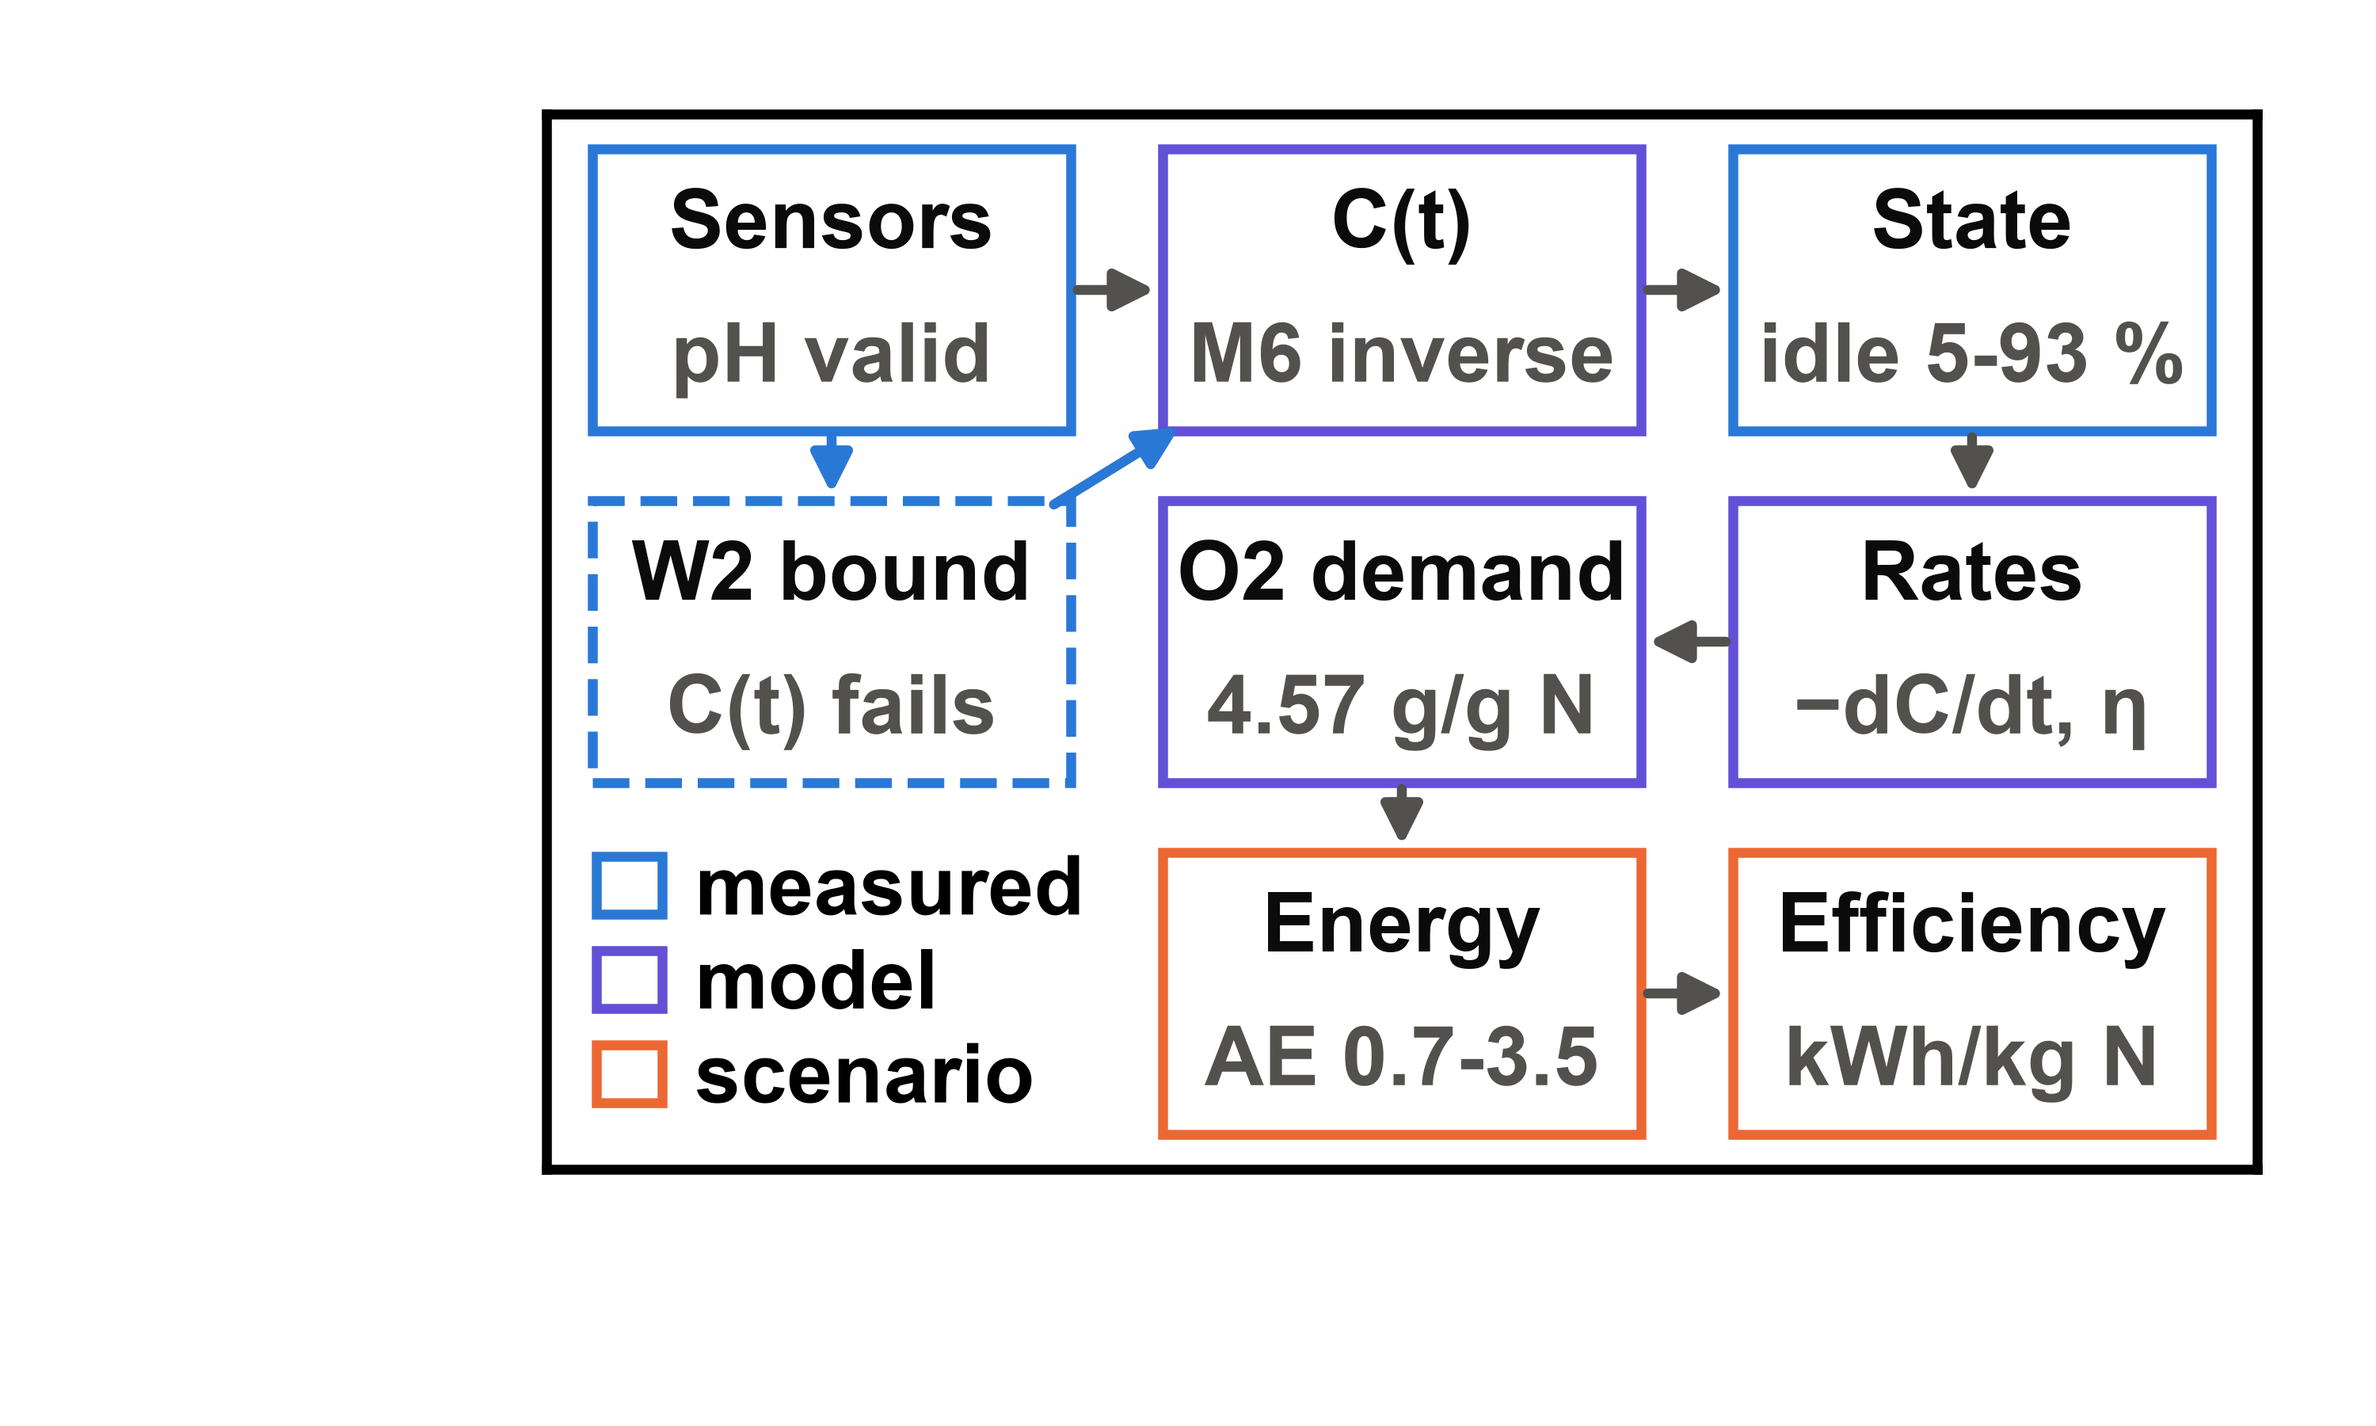
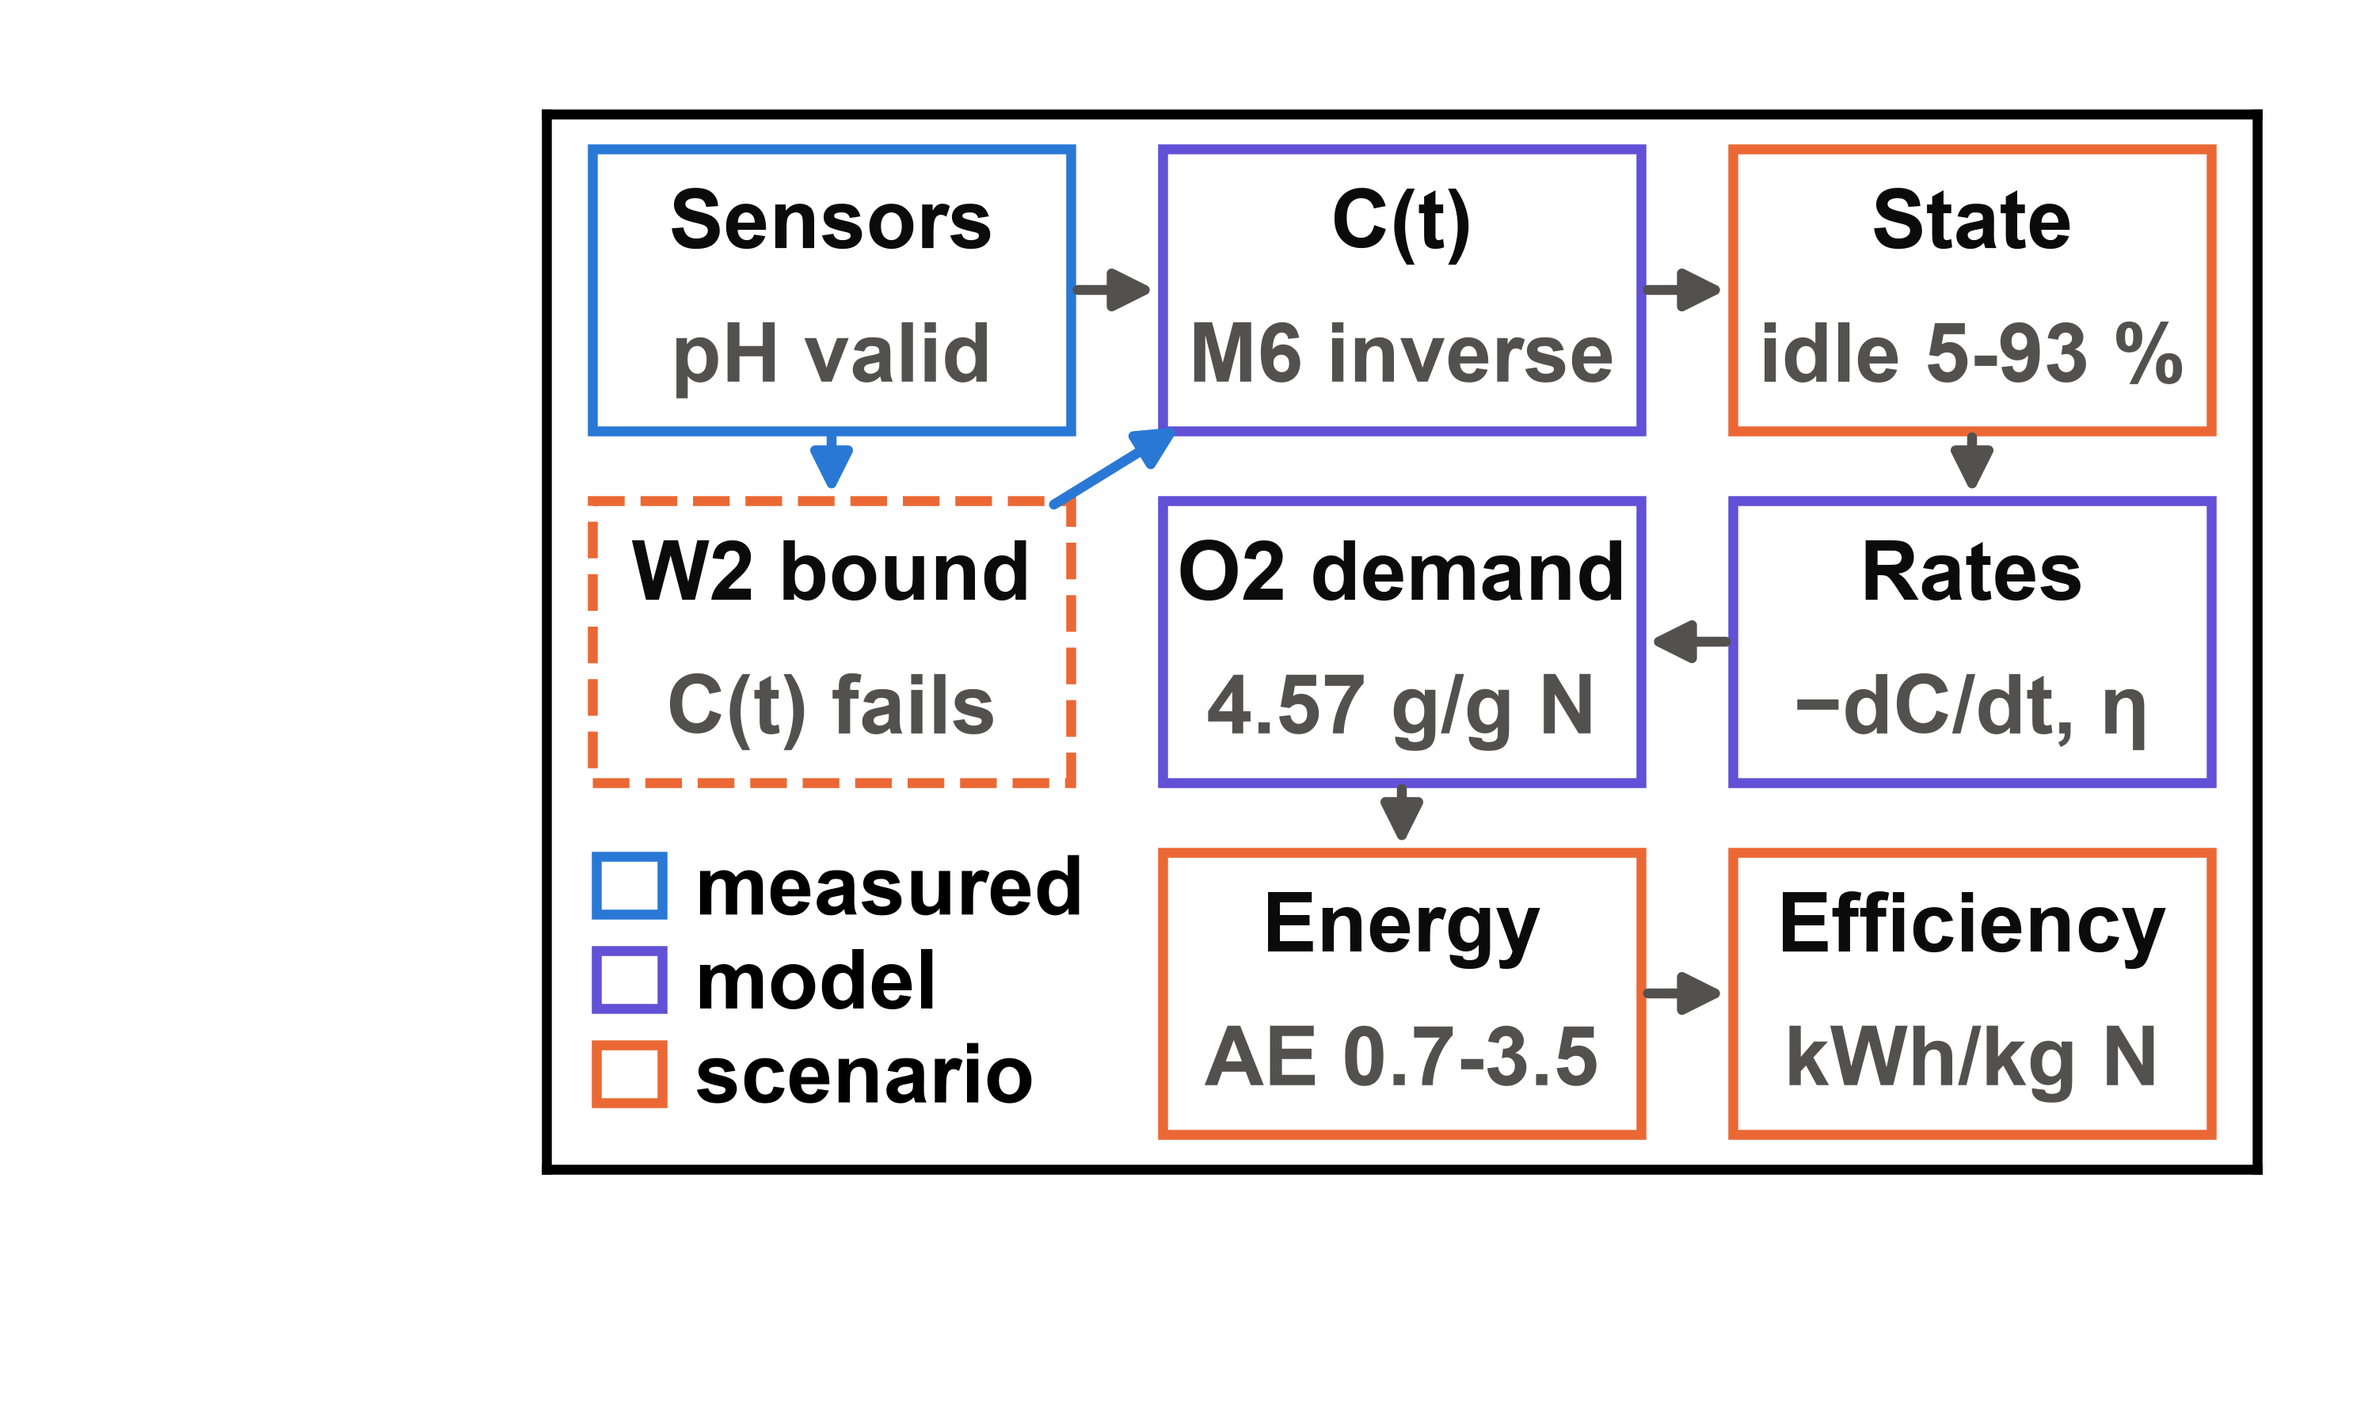
Draw Fig. 1 State and W2-bound boxes as scenario, not measured (pass 6, P1-1)
The idle bounds rest on the ORP SCENARIO threshold and the M6-inverted C(t),
and the W2 bound on the Alk0 scan and the temperature and kLa_CO2 SCENARIOs.
Boxes now carry a named basis; check_fig1_bases refuses to draw a box as
measured when its source rows carry a SCENARIO or ASSUMPTION label. Only the
four fig1 files change under outputs/. Full suite: 496 passed, no skips.

Changed region(s): [[0.713, 0.0933, 0.93, 0.3111], [0.248, 0.3422, 0.465, 0.4044], [0.248, 0.5289, 0.465, 0.56]]

diff --git a/src/bnr_neq/figures.py b/src/bnr_neq/figures.py
@@ -220,12 +220,20 @@ def _read(out_dir: Path, rel: str) -> pd.DataFrame:
 
 
 # --- Fig. 1 (W6) -----------------------------------------------------------------------------------------------
-def fig1(t: dict[str, pd.DataFrame], d: Path, saes: list[float]) -> None:
-    """The linkage diagram on a 3 x 3 grid, every label at the rcParams size: a title and one short line per box; the
-    report caption and §1 carry the detail."""
-    from matplotlib.patches import Patch
+# Fig. 1 box border = the basis of the box's number, as the caption and legend define it; a box that rests on any
+# SCENARIO is "scenario", even when it also rests on a model
+FIG1_BASIS_COLORS = {"measured": BLUE, "model": VIOLET, "scenario": ORANGE}
+# the table and rows ((column, value), None = every row) each box's printed number is read from; check_fig1_bases
+# reads their SCENARIO/ASSUMPTION labels
+FIG1_BOX_SOURCES = {"sensors": ("sensor_verdicts.csv", None),
+                    "state": ("states_fractions.csv", ("interval", "whole record")),
+                    "w2": ("nh4_truth_w2_consistency.csv", None)}
+_LABEL_TAGS = ("SCENARIO", "ASSUMPTION")
 
-    plt = _plt()
+
+def fig1_boxes(t: dict[str, pd.DataFrame], saes: list[float]) -> dict[str, tuple[tuple[int, int], str, str, str]]:
+    """Fig. 1 boxes as {key: (cell, title, line, basis)}; the chain runs Sensors → C(t) → State ↓ Rates → O2 ↓
+    Energy → Efficiency, with the W2 bound fed by the sensors."""
     v = t["sensor_verdicts.csv"].set_index("key")["verdict"].astype(str)
     fr = t["states_fractions.csv"].set_index("interval").loc["whole record"]
     cons = t["nh4_truth_w2_consistency.csv"]
@@ -233,26 +241,57 @@ def fig1(t: dict[str, pd.DataFrame], d: Path, saes: list[float]) -> None:
     valid = [k for k in ("ph", "nh4", "orp", "ec") if v[k].startswith("PASS")]
     sensors_line = (" ".join({"ph": "pH", "nh4": "NH4", "orp": "ORP", "ec": "EC"}[k] for k in valid) + " valid"
                     if valid else "none valid")
-    # (cell, title, line, border); the chain runs Sensors → C(t) → State ↓ Rates → O2 ↓ Energy → Efficiency
-    boxes = {
-        "sensors": ((0, 2), "Sensors", sensors_line, BLUE),
-        "ct": ((1, 2), "C(t)", "M6 inverse", VIOLET),
+    return {
+        "sensors": ((0, 2), "Sensors", sensors_line, "measured"),
+        "ct": ((1, 2), "C(t)", "M6 inverse", "model"),
+        # the idle bounds rest on the ORP SCENARIO threshold (25 °C) and on the M6-inverted C(t) (P1-1, pass 6)
         "state": ((2, 2), "State", (f"idle {100 * fr['idle_fraction_lower_bound']:.0f}-"
-                                    f"{100 * fr['idle_fraction_upper_bound']:.0f} %"), BLUE),
-        "rates": ((2, 1), "Rates", "−dC/dt, η", VIOLET),
-        "o2": ((1, 1), "O2 demand", "4.57 g/g N", VIOLET),
-        "energy": ((1, 0), "Energy", f"AE {min(saes):g}-{max(saes):g}", ORANGE),
-        "eff": ((2, 0), "Efficiency", "kWh/kg N", ORANGE),
-        "w2": ((0, 1), "W2 bound", "C(t) fails" if contradicted else "C(t) holds", BLUE),
+                                    f"{100 * fr['idle_fraction_upper_bound']:.0f} %"), "scenario"),
+        "rates": ((2, 1), "Rates", "−dC/dt, η", "model"),
+        "o2": ((1, 1), "O2 demand", "4.57 g/g N", "model"),
+        "energy": ((1, 0), "Energy", f"AE {min(saes):g}-{max(saes):g}", "scenario"),
+        "eff": ((2, 0), "Efficiency", "kWh/kg N", "scenario"),
+        # measured pH input, but the Alk0 scan and the temperature and kLa_CO2 axes are SCENARIOs (P1-1, pass 6)
+        "w2": ((0, 1), "W2 bound", "C(t) fails" if contradicted else "C(t) holds", "scenario"),
     }
+
+
+def check_fig1_bases(t: dict[str, pd.DataFrame], boxes: dict) -> None:
+    """Refuse to draw a box as "measured" when the rows its number is read from carry a SCENARIO or ASSUMPTION label,
+    and refuse an unknown basis."""
+    for key, (_, title, _, basis) in boxes.items():
+        if basis not in FIG1_BASIS_COLORS:
+            raise ValueError(f"Fig. 1 box {key!r}: unknown basis {basis!r}")
+        if key not in FIG1_BOX_SOURCES or basis != "measured":
+            continue
+        name, row = FIG1_BOX_SOURCES[key]
+        tab = t[name]
+        if "assumptions" not in tab.columns:
+            continue
+        rows = tab if row is None else tab[tab[row[0]].astype(str) == row[1]]
+        tagged = rows["assumptions"].fillna("").astype(str)
+        hit = tagged[tagged.str.contains("|".join(_LABEL_TAGS))]
+        if not hit.empty:
+            raise ValueError(f"Fig. 1 box {title!r} drawn as measured, but {name} labels its number: "
+                             f"{hit.iloc[0]!r}")
+
+
+def fig1(t: dict[str, pd.DataFrame], d: Path, saes: list[float]) -> None:
+    """The linkage diagram on a 3 x 3 grid, every label at the rcParams size: a title and one short line per box; the
+    report caption and §1 carry the detail."""
+    from matplotlib.patches import Patch
+
+    boxes = fig1_boxes(t, saes)
+    check_fig1_bases(t, boxes)
+    plt = _plt()
     fig, ax = _new(plt)
     ax.set_xlim(0, 3)
     ax.set_ylim(0, 3)
     ax.set_xticks([])
     ax.set_yticks([])
-    for key, ((i, j), title, line, color) in boxes.items():
+    for key, ((i, j), title, line, basis) in boxes.items():
         ax.add_patch(plt.Rectangle((i + BOX_X, j + BOX_Y), 1 - 2 * BOX_X, 1 - 2 * BOX_Y, facecolor="none",
-                                   edgecolor=color, lw=3,
+                                   edgecolor=FIG1_BASIS_COLORS[basis], lw=3,
                                    ls="--" if key == "w2" else "-"))
         ax.text(i + 0.5, j + 0.68, title, ha="center", va="center", color=INK)
         ax.text(i + 0.5, j + 0.30, line, ha="center", va="center", color=INK2)
@@ -261,7 +300,7 @@ def fig1(t: dict[str, pd.DataFrame], d: Path, saes: list[float]) -> None:
         _arrow(ax, boxes[a][0], boxes[b][0], BLUE if b == "w2" else INK2)
     ax.annotate("", xy=(1.12, 2.12), xytext=(0.88, 1.88), arrowprops={"arrowstyle": "-|>", "color": BLUE, "lw": 3})
     ax.legend(handles=[Patch(facecolor="none", edgecolor=c, lw=3, label=lab)
-                       for c, lab in ((BLUE, "measured"), (VIOLET, "model"), (ORANGE, "scenario"))],
+                       for lab, c in FIG1_BASIS_COLORS.items()],
               loc="lower left", frameon=False, handlelength=0.8, handletextpad=0.4, labelspacing=0.2,
               borderaxespad=0.2)
     _save(fig, d, "fig1_linkage_sensors_state_O2_energy_efficiency", plt)

diff --git a/tests/test_figures.py b/tests/test_figures.py
@@ -59,3 +59,85 @@ def test_saved_files_are_300_dpi_and_transparent(drawn):
             assert im.size == (3000, 1800), stem  # 10 x 6 in at 300 dpi
             assert round(im.info["dpi"][0]) == 300, stem
             assert im.mode == "RGBA" and np.asarray(im)[0, 0, 3] == 0, stem  # transparent background
+
+
+# --- P1-1 (pass 6): no Fig. 1 box whose number carries a SCENARIO or ASSUMPTION label is drawn as "measured" ----
+FIG1_TABLES = ("sensor_verdicts.csv", "states_fractions.csv", "nh4_truth_w2_consistency.csv")
+
+
+@pytest.fixture(scope="module")
+def fig1_inputs(cfg, run_all_dir):
+    t = {n: F._read(run_all_dir, f"tables/{n}") for n in FIG1_TABLES}
+    return t, [float(x) for x in cfg.get("scenarios.sae_field_kgO2_per_kWh")]
+
+
+def _labelled(t, key) -> bool:
+    """True when the rows a box's number is read from carry a SCENARIO or ASSUMPTION label (read independently of
+    figures.check_fig1_bases)."""
+    name, row = F.FIG1_BOX_SOURCES[key]
+    tab = t[name]
+    if "assumptions" not in tab.columns:
+        return False
+    if row is not None:
+        tab = tab[tab[row[0]].astype(str) == row[1]]
+        assert len(tab) == 1, (key, row)
+    return any(("SCENARIO" in s or "ASSUMPTION" in s) for s in tab["assumptions"].fillna("").astype(str))
+
+
+def test_fig1_labelled_boxes_are_not_drawn_as_measured(fig1_inputs):
+    t, saes = fig1_inputs
+    boxes = F.fig1_boxes(t, saes)
+    assert set(F.FIG1_BOX_SOURCES) <= set(boxes)
+    # the two boxes the pass-6 re-review found drawn as measured rest on labelled rows in the run-all tables
+    assert _labelled(t, "state") and _labelled(t, "w2")
+    for key in F.FIG1_BOX_SOURCES:
+        if _labelled(t, key):
+            assert boxes[key][3] != "measured", key
+    assert boxes["state"][3] == "scenario" and boxes["w2"][3] == "scenario"
+    # energy and efficiency rest on the field AE SCENARIO range; only the sensor box is measured
+    assert {k for k, b in boxes.items() if b[3] == "measured"} == {"sensors"}
+    F.check_fig1_bases(t, boxes)  # the production guard accepts the real boxes
+
+
+@pytest.mark.parametrize("key", ["state", "w2"])
+def test_fig1_refuses_a_labelled_box_drawn_as_measured(fig1_inputs, key):
+    t, saes = fig1_inputs
+    boxes = F.fig1_boxes(t, saes)
+    cell, title, line, _ = boxes[key]
+    boxes[key] = (cell, title, line, "measured")
+    with pytest.raises(ValueError, match="drawn as measured"):
+        F.check_fig1_bases(t, boxes)
+
+
+def test_fig1_refuses_an_unknown_basis(fig1_inputs):
+    t, saes = fig1_inputs
+    boxes = F.fig1_boxes(t, saes)
+    cell, title, line, _ = boxes["ct"]
+    boxes["ct"] = (cell, title, line, "validated")
+    with pytest.raises(ValueError, match="unknown basis"):
+        F.check_fig1_bases(t, boxes)
+
+
+def test_drawn_fig1_borders_and_legend_follow_the_basis(fig1_inputs, tmp_path, monkeypatch):
+    t, saes = fig1_inputs
+    boxes = F.fig1_boxes(t, saes)
+    seen = {}
+
+    def capture(fig, d, stem, plt):
+        ax = fig.axes[0]
+        seen["edges"] = [p.get_edgecolor() for p in ax.patches]
+        leg = ax.get_legend()
+        seen["legend"] = {txt.get_text(): h.get_edgecolor()
+                          for txt, h in zip(leg.get_texts(), leg.legend_handles, strict=True)}
+        plt.close(fig)
+
+    monkeypatch.setattr(F, "_save", capture)
+    F.fig1(t, tmp_path, saes)
+    from matplotlib.colors import to_rgba
+
+    assert seen["edges"] == [to_rgba(F.FIG1_BASIS_COLORS[b[3]]) for b in boxes.values()]
+    assert seen["legend"] == {lab: to_rgba(c) for lab, c in F.FIG1_BASIS_COLORS.items()}
+    measured = to_rgba(F.FIG1_BASIS_COLORS["measured"])
+    for key, edge in zip(boxes, seen["edges"], strict=True):
+        if key in F.FIG1_BOX_SOURCES and _labelled(t, key):
+            assert edge != measured, key

diff --git a/docs/progress.md b/docs/progress.md
@@ -1527,3 +1527,42 @@ All checks passed!
 - **Font warnings:** matplotlib warns that Arial has no weight 600 and draws the nearest weight, 700 (bold). The rcParams are applied exactly as specified.
 
 Open: none. This is an implementer's log, not an approval; the reviewer decides.
+
+## Pass 6, P1-1: Fig. 1 box borders follow the basis of each box's number (2026-11-05)
+
+Scope: P1-1 of `docs/rereview_2026-11-05_pass6.md`. Fig. 1 drew the State box ("idle 5-93 %") and the W2-bound box with the blue border that its legend defines as "measured". The idle bounds rest on the ORP SCENARIO threshold (25 °C) and on the M6-inverted C(t). The W2 curve rests on measured pH, but also on the scanned Alk0 and on the temperature and kLa_CO2 SCENARIOs. P2-1 to P2-10 are not in scope.
+
+### What changed
+
+- **`src/bnr_neq/figures.py`:**
+  - `fig1_boxes(t, saes)` returns the boxes as `{key: (cell, title, line, basis)}`, with the basis named as `measured`, `model` or `scenario` instead of a colour. State and W2 bound are now `scenario`. Every other box keeps its basis (Sensors measured; C(t), Rates and O2 demand model; Energy and Efficiency scenario).
+  - `FIG1_BASIS_COLORS` maps basis to colour (blue, violet, orange, as before) and drives both the box borders and the legend.
+  - `FIG1_BOX_SOURCES` names the table and rows each printed number is read from: `sensor_verdicts.csv`; the whole-record row of `states_fractions.csv`; `nh4_truth_w2_consistency.csv`.
+  - `check_fig1_bases` runs before drawing. It raises `ValueError` if a box is `measured` while the `assumptions` of its source rows contain SCENARIO or ASSUMPTION, or if a basis is unknown. No fallback.
+  - The arrows are unchanged, including the blue arrow from W2 bound to C(t). Arrows are not covered by the "box border = basis" legend.
+  - The caption in `FIGURE_GROUPS` is unchanged. Its definition, "orange SCENARIO-dependent", already covers both boxes.
+- **`tests/test_figures.py`**, 4 new tests (5 cases), on the run-all tables:
+  - the State and W2 rows are labelled, so their boxes are not `measured`, and only Sensors is `measured`. The labels are read independently of `check_fig1_bases`;
+  - the guard raises when State or W2 is set back to `measured` (parametrized), and on an unknown basis;
+  - the drawn figure object: each rectangle's edge colour equals `FIG1_BASIS_COLORS[basis]`, the legend maps measured/model/scenario to the same colours, and no labelled box is blue.
+
+### Changed outputs against `73f4079`
+
+- **Figures:** `figures/fig1_linkage_sensors_state_O2_energy_efficiency.{png,svg}` and the same two files in `figures/no_text/`. The SVGs differ in two lines each: the stroke colour of the State and W2-bound boxes.
+- **Tables and reports:** none changed. They were redrawn with `uv run python -m bnr_neq figures` from the saved tables, and `git status` shows only the four fig1 files under `outputs/`.
+
+### Commands and results (P1-1)
+
+```
+$ uv run ruff check                                   # All checks passed!
+$ uv run python -m bnr_neq figures                    # exit 0, wrote 29 figures; only the 4 fig1 files differ
+$ uv run pytest -q -rs                                # exit 0
+496 passed in 27546.02s (7:39:06)
+```
+
+- **Test count, 496:** the 491 tests of W6/W7, plus the 5 new Fig. 1 cases. **Skips:** none.
+- The SHA-256 of every file in `src/bnr_neq/` and of `tests/test_figures.py` was recorded before the run and was identical after it.
+
[1 lines of base64/hex data omitted]
+
+Open: P2-1 to P2-10 and the two pass-5 P2 items, unchanged. This is an implementer's log, not an approval; the reviewer decides.
